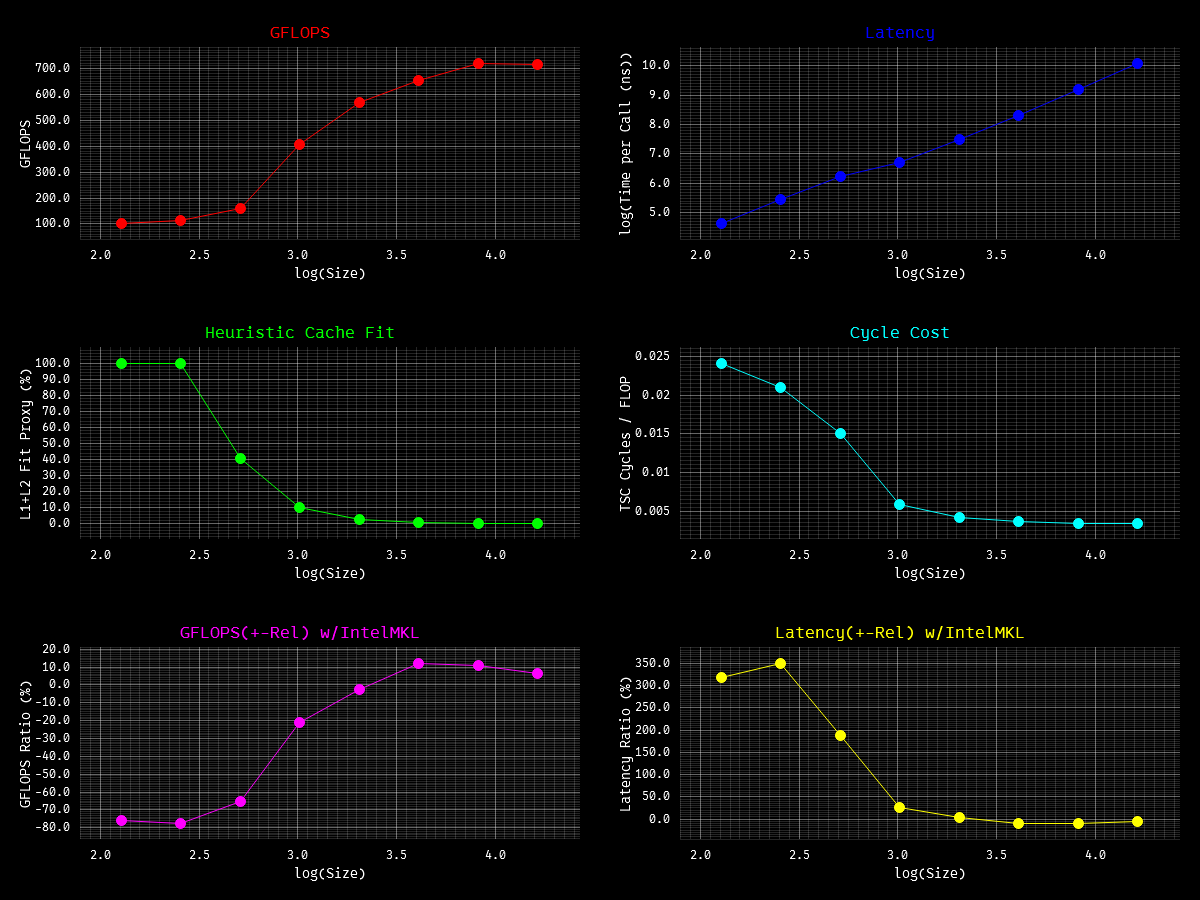
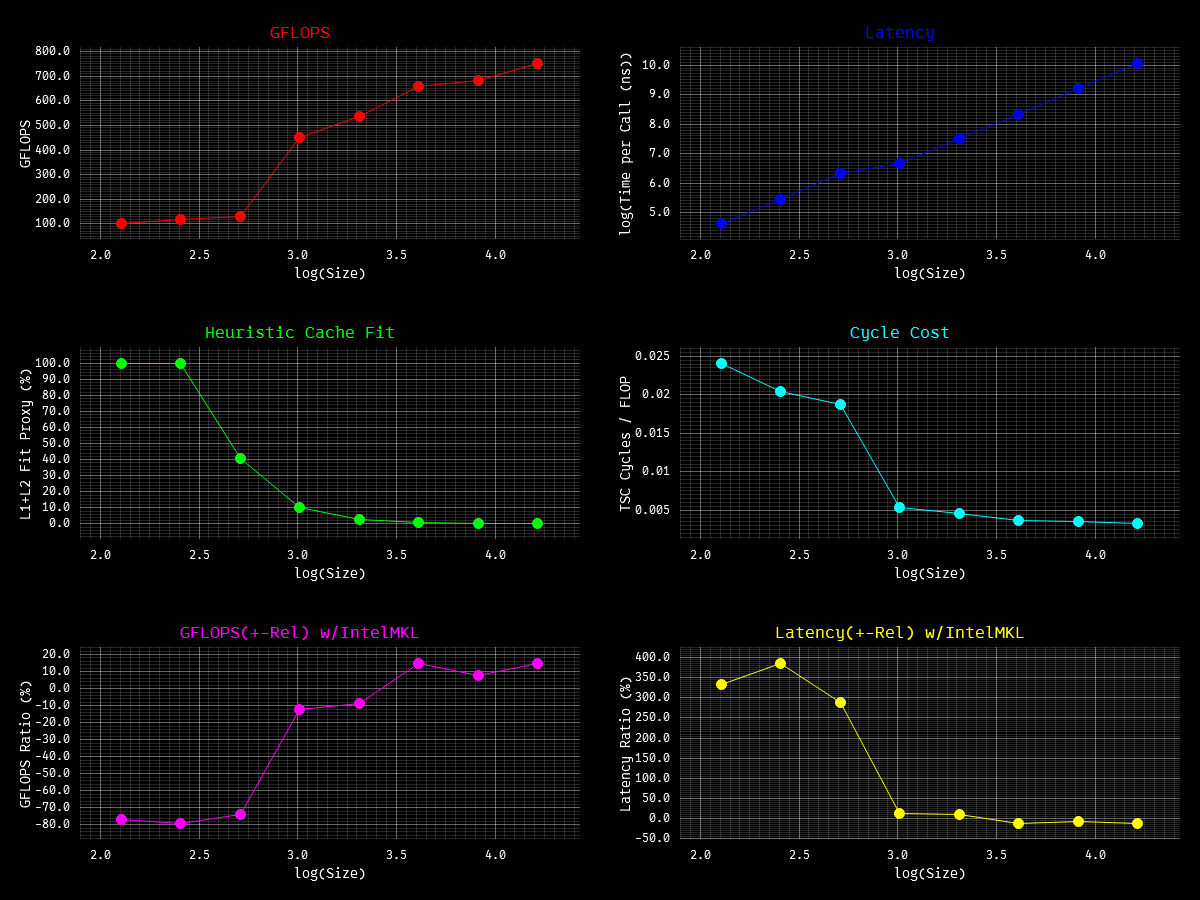
reduce par threshold, rewrote gemm_fallback

diff --git a/src/lvl3.rs b/src/lvl3.rs
@@ -17,7 +17,6 @@ const GEMM_KC: usize = 256; // K block  (L1)
 /// - c: column-major tile with leading dimension ldc
 ///
 /// C is touched exactly once and accumulators stay in registers for all the kc.
-#[inline(always)]
 #[allow(unused)]
 unsafe fn kernel_16x4(
     kc: usize,
@@ -81,7 +80,7 @@ unsafe fn kernel_16x4(
 /// - b: packed, k-major, 6 floats per k step
 /// - c: column-major tile with leading dimension ldc
 ///
-/// C is touched exactly once; accumulators stay in registers for all kc.
+/// C is touched exactly once and accumulators stay in registers for all kc.
 #[inline(always)]
 unsafe fn kernel_16x6(
     kc: usize,
@@ -154,6 +153,7 @@ unsafe fn kernel_16x6(
     }
 }
 
+#[inline(always)]
 unsafe fn pack_a(mc: usize, kc: usize, a: *const f32, rs: usize, cs: usize, dst: *mut f32) {
     unsafe {
         let mut i0 = 0;
@@ -188,6 +188,7 @@ unsafe fn pack_a(mc: usize, kc: usize, a: *const f32, rs: usize, cs: usize, dst:
     }
 }
 
+#[inline(always)]
 unsafe fn pack_b(kc: usize, nc: usize, b: *const f32, rs: usize, cs: usize, dst: *mut f32) {
     unsafe {
         let mut j0 = 0;
@@ -240,6 +241,8 @@ unsafe fn gemm_blocked(
     let mc_max = GEMM_MC.min(m).div_ceil(MR) * MR;
     let nc_max = nc_step;
     let kc_max = GEMM_KC.min(k);
+
+    // TODO: use thread_local scratch buffers
     let mut a_packed = vec![0.0f32; mc_max * kc_max];
     let mut b_packed = vec![0.0f32; kc_max * nc_max];
 
@@ -315,7 +318,7 @@ use crate::GLOBAL_THREAD_POOL;
 use rayon::prelude::*;
 
 #[allow(clippy::too_many_arguments)]
-unsafe fn gemm_par(
+unsafe fn gemm_parallel(
     m: usize,
     n: usize,
     k: usize,
@@ -332,7 +335,8 @@ unsafe fn gemm_par(
     let nt = GLOBAL_THREAD_POOL.current_num_threads();
 
     // too small (2*m*n*k flops), scheduling overhead would dominate
-    if nt == 1 || 2 * m * n * k < (64 << 20) {
+    let flops = 2 * m as u64 * n as u64 * k as u64;
+    if nt == 1 || flops < 100_000_000 {
         unsafe { gemm_blocked(m, n, k, alpha, a, a_rs, a_cs, b, b_rs, b_cs, c, ldc) };
         return;
     }
@@ -341,14 +345,14 @@ unsafe fn gemm_par(
     let split_n = n >= m;
     let (dim, unit) = if split_n { (n, NR) } else { (m, MR) };
     let chunk = dim.div_ceil(nt).div_ceil(unit) * unit;
-    let nchunks = dim.div_ceil(chunk);
+    let n_chunks = dim.div_ceil(chunk);
 
     // cast to usize to smuggle the raw pointers into the rayon task cuz `*mut f32` is not `Send`
     // SAFETY: A/B are read-only in every task and the C slabs are disjoint by construction of the 1D split
     let (ap, bp, cp) = (a as usize, b as usize, c as usize);
 
     GLOBAL_THREAD_POOL.install(|| {
-        (0..nchunks).into_par_iter().for_each(|t| unsafe {
+        (0..n_chunks).into_par_iter().for_each(|t| unsafe {
             let (a, b, c) = (ap as *const f32, bp as *const f32, cp as *mut f32);
             let start = t * chunk;
             let len = chunk.min(dim - start);
@@ -404,7 +408,7 @@ unsafe fn gemm_nn(
     c: *mut f32,
     ldc: usize,
 ) {
-    unsafe { gemm_par(m, n, k, alpha, a, 1, lda, b, 1, ldb, c, ldc) }
+    unsafe { gemm_parallel(m, n, k, alpha, a, 1, lda, b, 1, ldb, c, ldc) }
 }
 
 /// C += alpha * A * B^T
@@ -422,7 +426,7 @@ unsafe fn gemm_nt(
     c: *mut f32,
     ldc: usize,
 ) {
-    unsafe { gemm_par(m, n, k, alpha, a, 1, lda, b, ldb, 1, c, ldc) }
+    unsafe { gemm_parallel(m, n, k, alpha, a, 1, lda, b, ldb, 1, c, ldc) }
 }
 
 /// C += alpha * A^T * B
@@ -440,7 +444,7 @@ unsafe fn gemm_tn(
     c: *mut f32,
     ldc: usize,
 ) {
-    unsafe { gemm_par(m, n, k, alpha, a, lda, 1, b, 1, ldb, c, ldc) }
+    unsafe { gemm_parallel(m, n, k, alpha, a, lda, 1, b, 1, ldb, c, ldc) }
 }
 
 /// C += alpha * A^T * B^T
@@ -458,7 +462,7 @@ unsafe fn gemm_tt(
     c: *mut f32,
     ldc: usize,
 ) {
-    unsafe { gemm_par(m, n, k, alpha, a, lda, 1, b, ldb, 1, c, ldc) }
+    unsafe { gemm_parallel(m, n, k, alpha, a, lda, 1, b, ldb, 1, c, ldc) }
 }
 
 #[inline]
@@ -552,7 +556,8 @@ pub fn gemm(
     }
 }
 
-/// Plain scalar GEMM with no SIMD
+/// Fallback implementation of GEMM for non-x86 platforms or when AVX2/FMA is not available
+#[inline]
 #[allow(unused)]
 #[allow(clippy::too_many_arguments)]
 fn gemm_fallback(
@@ -569,14 +574,103 @@ fn gemm_fallback(
     ta: bool,
     tb: bool,
 ) {
-    for j in 0..n {
-        for p in 0..k {
-            let bv = if tb { b[j + p * ldb] } else { b[p + j * ldb] };
-            for i in 0..m {
-                let av = if ta { a[p + i * lda] } else { a[i + p * lda] };
-                c[i + j * ldc] += alpha * av * bv;
+    if m == 0 || n == 0 || k == 0 {
+        return;
+    }
+
+    #[inline(always)]
+    fn gemm_blocked<const TA: bool, const TB: bool>(
+        m: usize,
+        n: usize,
+        k: usize,
+        alpha: f32,
+        a: &[f32],
+        lda: usize,
+        b: &[f32],
+        ldb: usize,
+        c: &mut [f32],
+        ldc: usize,
+    ) {
+        const MC: usize = 128;
+        const NC: usize = 64;
+
+        const MR: usize = 4;
+        const NR: usize = 4;
+
+        #[inline(always)]
+        fn micro_kernel_4x4<const TA: bool, const TB: bool>(
+            k: usize,
+            alpha: f32,
+            a: &[f32],
+            lda: usize,
+            b: &[f32],
+            ldb: usize,
+            c: &mut [f32],
+            ldc: usize,
+            i: usize,
+            j: usize,
+            rows: usize,
+            cols: usize,
+        ) {
+            let mut acc = [[0.0f32; MR]; NR];
+
+            for p in 0..k {
+                let mut av = [0.0f32; MR];
+                let mut bv = [0.0f32; NR];
+                for r in 0..rows {
+                    let ai = if TA {
+                        p + (i + r) * lda
+                    } else {
+                        i + r + p * lda
+                    };
+
+                    av[r] = a[ai];
+                }
+                for col in 0..cols {
+                    let bi = if TB {
+                        j + col + p * ldb
+                    } else {
+                        p + (j + col) * ldb
+                    };
+
+                    bv[col] = b[bi];
+                }
+                for col in 0..cols {
+                    for r in 0..rows {
+                        acc[col][r] = av[r].mul_add(bv[col], acc[col][r]);
+                    }
+                }
+            }
+            for col in 0..cols {
+                let cbase = (j + col) * ldc + i;
+                for r in 0..rows {
+                    c[cbase + r] = alpha.mul_add(acc[col][r], c[cbase + r]);
+                }
             }
         }
+
+        for jj in (0..n).step_by(NC) {
+            let j_end = (jj + NC).min(n);
+            for ii in (0..m).step_by(MC) {
+                let i_end = (ii + MC).min(m);
+                for j in (jj..j_end).step_by(NR) {
+                    let cols = (j + NR).min(j_end) - j;
+                    for i in (ii..i_end).step_by(MR) {
+                        let rows = (i + MR).min(i_end) - i;
+                        micro_kernel_4x4::<TA, TB>(
+                            k, alpha, a, lda, b, ldb, c, ldc, i, j, rows, cols,
+                        );
+                    }
+                }
+            }
+        }
+    }
+
+    match (ta, tb) {
+        (false, false) => gemm_blocked::<false, false>(m, n, k, alpha, a, lda, b, ldb, c, ldc),
+        (false, true) => gemm_blocked::<false, true>(m, n, k, alpha, a, lda, b, ldb, c, ldc),
+        (true, false) => gemm_blocked::<true, false>(m, n, k, alpha, a, lda, b, ldb, c, ldc),
+        (true, true) => gemm_blocked::<true, true>(m, n, k, alpha, a, lda, b, ldb, c, ldc),
     }
 }
 
@@ -715,12 +809,11 @@ fn gemm_regress() {
     }
 }
 
-/// Parallel GEMM must be bit-identical to the serial path
 #[test]
 fn gemm_parallel_matches_serial() {
     use crate::utils::Noise;
 
-    // 2*420*380*415 ≈ 132M flops, past the parallel threshold
+    // 2*420*380*415 ~= 132M flops, past the parallel threshold
     // sizes are non-multiples of MR/NR/GEMM_KC to hit every edge-tile path
     // with padded leading dims to hit the strided pack paths
     let (m, n, k) = (420, 380, 415);
@@ -754,15 +847,14 @@ fn gemm_parallel_matches_serial() {
 
                 // serial reference with the same beta handling
                 let mut c_ref = c_init.clone();
-                if beta != 1.0 {
-                    for j in 0..n {
-                        if beta == 0.0 {
-                            c_ref[j * ldc..j * ldc + m].fill(0.0);
-                        } else {
-                            scal(m, beta, &mut c_ref[j * ldc..j * ldc + m], 1);
-                        }
+                for j in 0..n {
+                    if beta == 0.0 {
+                        c_ref[j * ldc..j * ldc + m].fill(0.0);
+                    } else {
+                        scal(m, beta, &mut c_ref[j * ldc..j * ldc + m], 1);
                     }
                 }
+
                 unsafe {
                     gemm_blocked(
                         m,
@@ -793,6 +885,48 @@ fn gemm_parallel_matches_serial() {
                     }
                 }
             }
+        }
+    }
+}
+
+#[test]
+fn simd_gemm_matches_scalar() {
+    use crate::utils::Noise;
+    use std::hint::black_box;
+
+    let mut rng = Noise::rng();
+    let mut a = vec![0.0; 512 * 512];
+    let mut b = vec![0.0; 512 * 512];
+    let mut c = vec![0.0; 512 * 512];
+
+    rng.fill_f32(&mut a);
+    rng.fill_f32(&mut b);
+
+    black_box(&mut a);
+
+    gemm(
+        512, 512, 512, 1.0, &a, 512, &b, 512, 0.0, &mut c, 512, false, false,
+    );
+    let m0 = c.clone();
+
+    c.fill(0.0);
+
+    gemm_fallback(
+        512, 512, 512, 1.0, &a, 512, &b, 512, /* beta=0.0 */ &mut c, 512, false, false,
+    );
+    let m1 = c.clone();
+
+    for j in 0..512 {
+        for i in 0..512 {
+            let idx = i + j * 512;
+            let (a0, a1) = (m0[idx], m1[idx]);
+            let tol = 1e-4 * a1.abs().max(1.0);
+            assert!(
+                (a0 - a1).abs() <= tol,
+                "c[{i},{j}]: simd={}, scalar={}",
+                a0,
+                a1,
+            );
         }
     }
 }

diff --git a/README.md b/README.md
@@ -16,7 +16,7 @@ then copy the `.dll` or `.so` into the project root:
 - linux > `cp /home/ronakgh97/intel/oneapi/compiler/latest/lib/libiomp5.so .`
 - mac > `sell that shit pls` 😭🙏
 
-> All are single threaded except GEMM (8 threads), ran on i7 14650hx, rust 1.100.0, last updated on 11/13/2026
+> All are single threaded except GEMM (8 threads), ran on i7 14650hx, rust 1.100.0, last updated on 11/21/2026
 
 **AXPY**
 ![plot](bench/plots/axpy.png)
@@ -88,6 +88,8 @@ then copy the `.dll` or `.so` into the project root:
 | 8192  | 4171094  | 10.8765 | -66.4418%  | +197.9894% | 100.00%   | 0.2224   |
 | 16384 | 2149853  | 11.2119 | -54.0143%  | +117.4587% | 100.00%   | 0.2158   |
 
+---
+
 **GEMV_N**
 ![plot](bench/plots/gemv_n.png)
 
@@ -116,33 +118,35 @@ then copy the `.dll` or `.so` into the project root:
 | 8192  | 388     | 16.5525 | -14.7252% | +17.2679%  | 0.80%     | 0.1462   |
 | 16384 | 97      | 16.5426 | -16.7591% | +20.1333%  | 0.20%     | 0.1462   |
 
+---
+
 **GEMM_N_N**
 ![plot](bench/plots/gemm_n_n.png)
 
 | Size  | Run   | GFLOPS   | %GFLOPS   | %Latency   | WSS Cache | Cyc/Flop |
 |-------|-------|----------|-----------|------------|-----------|----------|
-| 128   | 74423 | 99.3604  | -78.2339% | +359.4306% | 100.00%   | 0.0243   |
-| 256   | 11442 | 122.2064 | -79.7766% | +394.4757% | 100.00%   | 0.0198   |
-| 512   | 2804  | 239.5001 | -60.5302% | +153.3581% | 40.94%    | 0.0101   |
-| 1024  | 810   | 553.5398 | -11.2813% | +12.7158%  | 10.23%    | 0.0044   |
-| 2048  | 140   | 760.8676 | +12.0484% | -10.7529%  | 2.56%     | 0.0032   |
-| 4096  | 19    | 829.8244 | +22.4899% | -18.3606%  | 0.64%     | 0.0029   |
-| 8192  | 3     | 861.4991 | +17.2124% | -14.6848%  | 0.16%     | 0.0028   |
-| 16384 | 1     | 865.5017 | +37.5998% | -27.3255%  | 0.04%     | 0.0028   |
+| 128   | 84043 | 112.2044 | -74.4649% | +291.6182% | 100.00%   | 0.0216   |
+| 256   | 12160 | 129.8694 | -80.1821% | +404.5950% | 100.00%   | 0.0186   |
+| 512   | 1596  | 136.3105 | -78.4730% | +364.5336% | 40.94%    | 0.0177   |
+| 1024  | 947   | 646.6604 | -1.1232%  | +1.1359%   | 10.23%    | 0.0037   |
+| 2048  | 155   | 844.1396 | +19.2135% | -16.1169%  | 2.56%     | 0.0029   |
+| 4096  | 19    | 805.0073 | +17.8893% | -15.1747%  | 0.64%     | 0.0030   |
+| 8192  | 3     | 861.0673 | +11.3789% | -10.2164%  | 0.16%     | 0.0028   |
+| 16384 | 1     | 875.7753 | +12.8635% | -11.3974%  | 0.04%     | 0.0028   |
 
 **GEMM_T_N**
 ![plot](bench/plots/gemm_t_n.png)
 
 | Size  | Run   | GFLOPS   | %GFLOPS   | %Latency   | WSS Cache | Cyc/Flop |
 |-------|-------|----------|-----------|------------|-----------|----------|
-| 128   | 75118 | 100.2881 | -76.1535% | +319.3488% | 100.00%   | 0.0241   |
-| 256   | 10794 | 115.2872 | -77.8248% | +350.9548% | 100.00%   | 0.0210   |
-| 512   | 1882  | 160.7749 | -65.2384% | +187.6740% | 40.94%    | 0.0150   |
-| 1024  | 598   | 408.1405 | -21.1271% | +26.7863%  | 10.23%    | 0.0059   |
-| 2048  | 105   | 570.1833 | -2.8582%  | +2.9423%   | 2.56%     | 0.0042   |
-| 4096  | 15    | 652.4927 | +12.2073% | -10.8792%  | 0.64%     | 0.0037   |
-| 8192  | 3     | 720.2229 | +11.0663% | -9.9637%   | 0.16%     | 0.0034   |
-| 16384 | 1     | 712.8514 | +6.6271%  | -6.2152%   | 0.04%     | 0.0034   |
+| 128   | 75088 | 100.2485 | -76.8830% | +332.5825% | 100.00%   | 0.0241   |
+| 256   | 11057 | 118.0961 | -79.4229% | +385.9776% | 100.00%   | 0.0205   |
+| 512   | 1514  | 129.3250 | -74.1705% | +287.1545% | 40.94%    | 0.0187   |
+| 1024  | 658   | 449.1081 | -12.1119% | +13.7810%  | 10.23%    | 0.0054   |
+| 2048  | 99    | 536.6825 | -8.7527%  | +9.5923%   | 2.56%     | 0.0045   |
+| 4096  | 16    | 657.3752 | +14.6381% | -12.7690%  | 0.64%     | 0.0037   |
+| 8192  | 2     | 683.2017 | +7.7842%  | -7.2220%   | 0.16%     | 0.0035   |
+| 16384 | 1     | 752.8766 | +14.9887% | -13.0349%  | 0.04%     | 0.0032   |
 
 Want to improve the bench perf or fix nasty numeric edge cases? Send some PRs.
 
